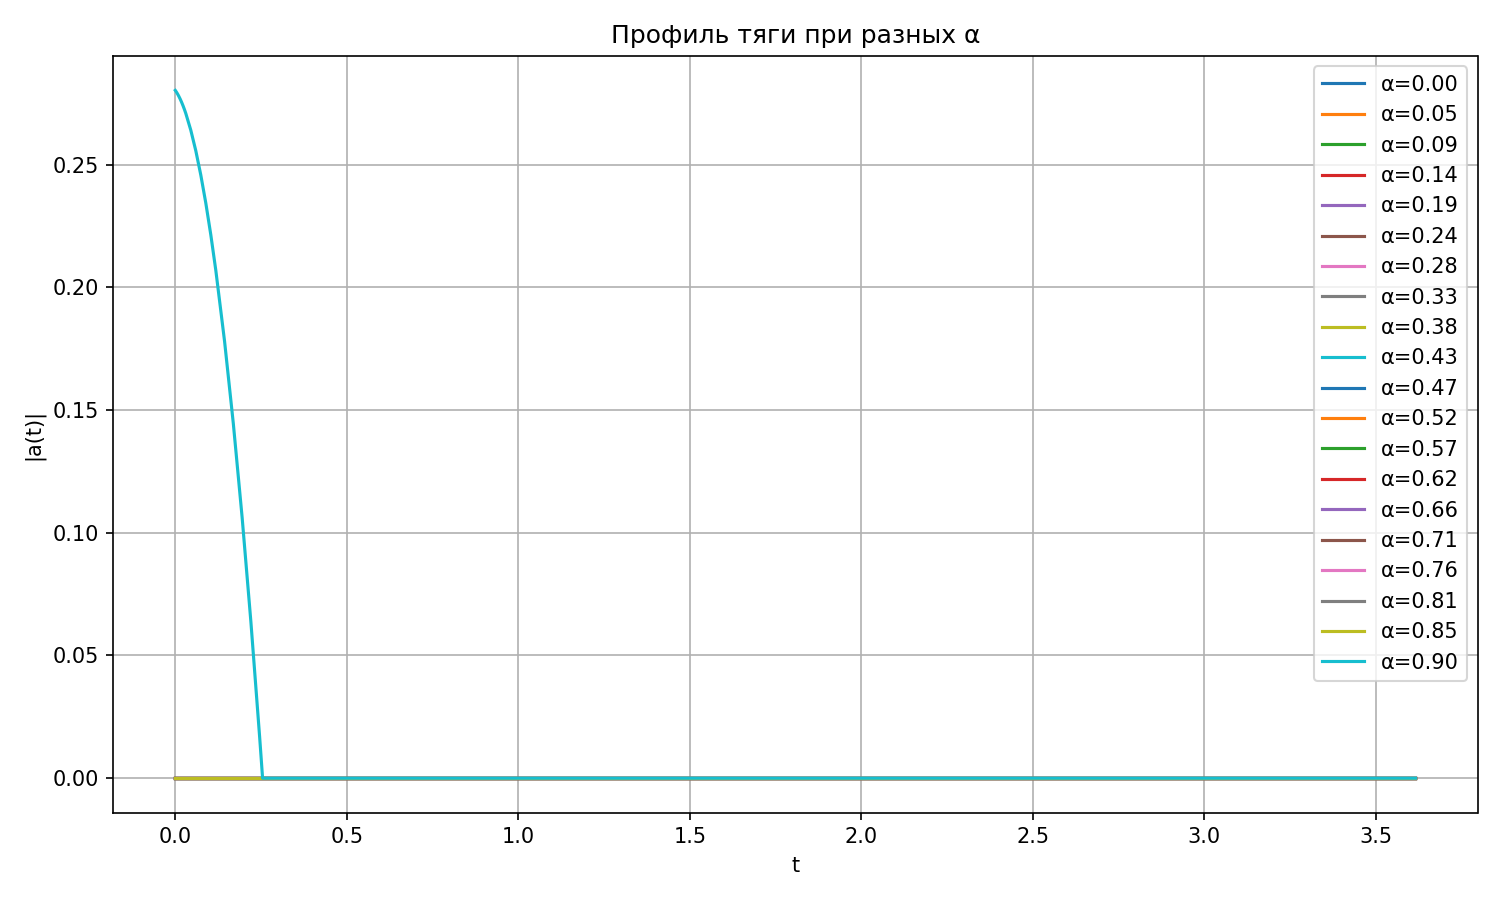
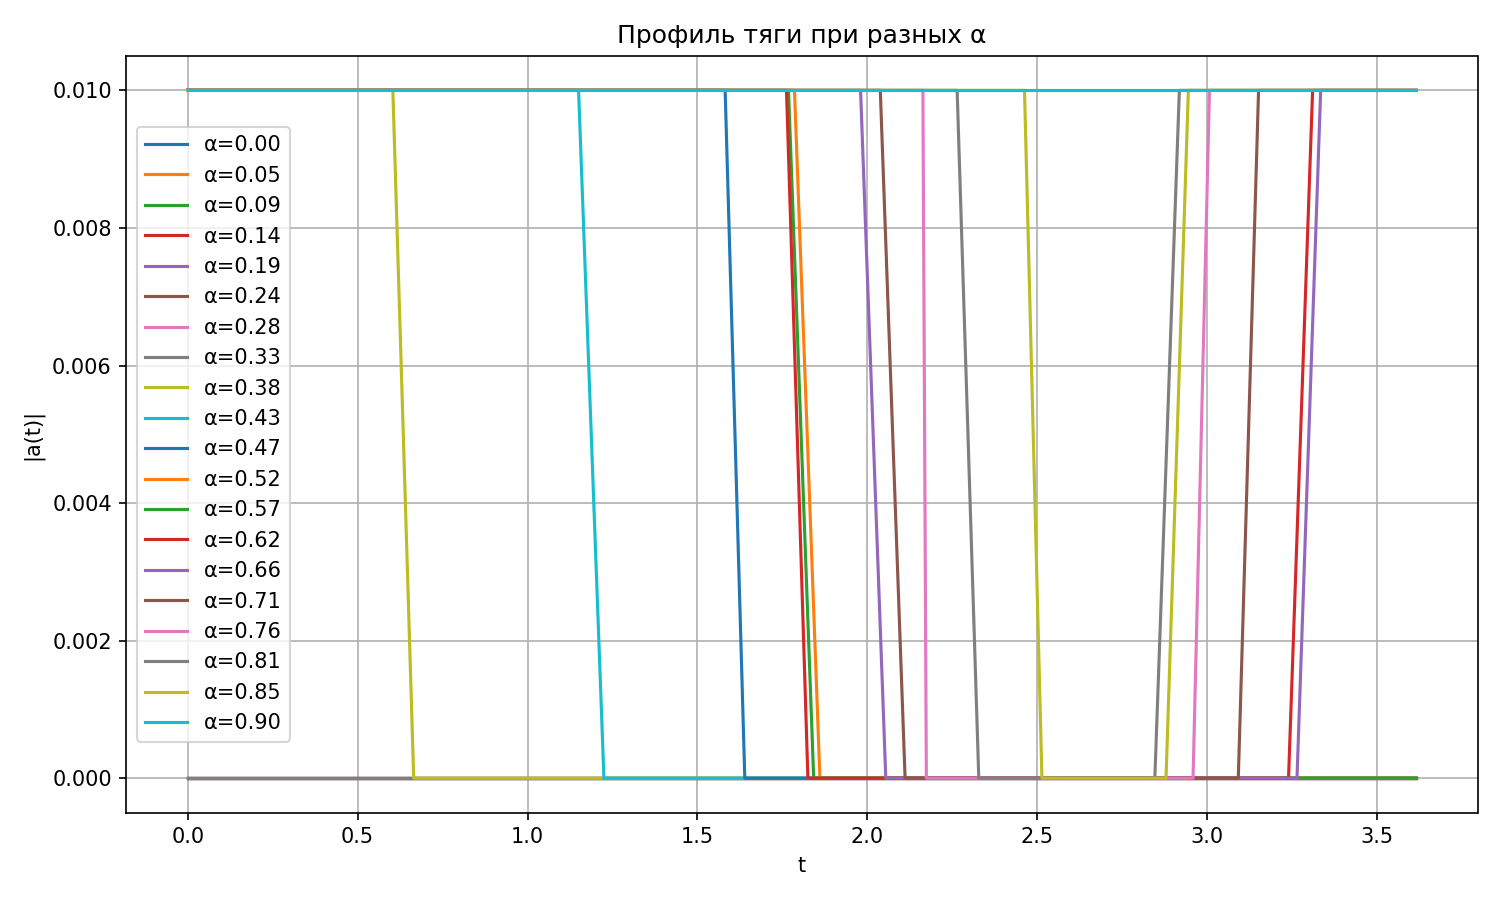
a_max_fixed -> 0.01

diff --git a/result_traj.py b/result_traj.py
@@ -273,7 +273,7 @@ class OptimalControlSolver:
 
         return result
 
-    def continuation_method(self, alpha_values, p0_initial=None, a_max_fixed=0.3):
+    def continuation_method(self, alpha_values, p0_initial=None, a_max_fixed=0.01):
         self.a_max = a_max_fixed
 
         results = []
@@ -374,8 +374,16 @@ if __name__ == "__main__":
     solver.set_boundary_conditions(r0, v0, rf, vf, T)
     alpha_values = np.linspace(0, 0.9, 20)
 
-    results = solver.continuation_method(alpha_values, a_max_fixed=0.5)
+    results = solver.continuation_method(alpha_values, a_max_fixed=0.01)
 
     solver.plot_trajectories_2d(results, 'continuation_trajectories.png')
     solver.plot_thrust_profiles(results, 'thrust_profiles.png')
+    # Берём решение для alpha = 0
+    traj0 = results[0]['trajectory']
+
+    pv = traj0.y[9:12]
+    pv_norm = np.linalg.norm(pv, axis=0)
+
+    print("Минимальное значение |p_v| при alpha=0:", np.min(pv_norm))
+    print("Максимальное значение |p_v| при alpha=0:", np.max(pv_norm))
 
